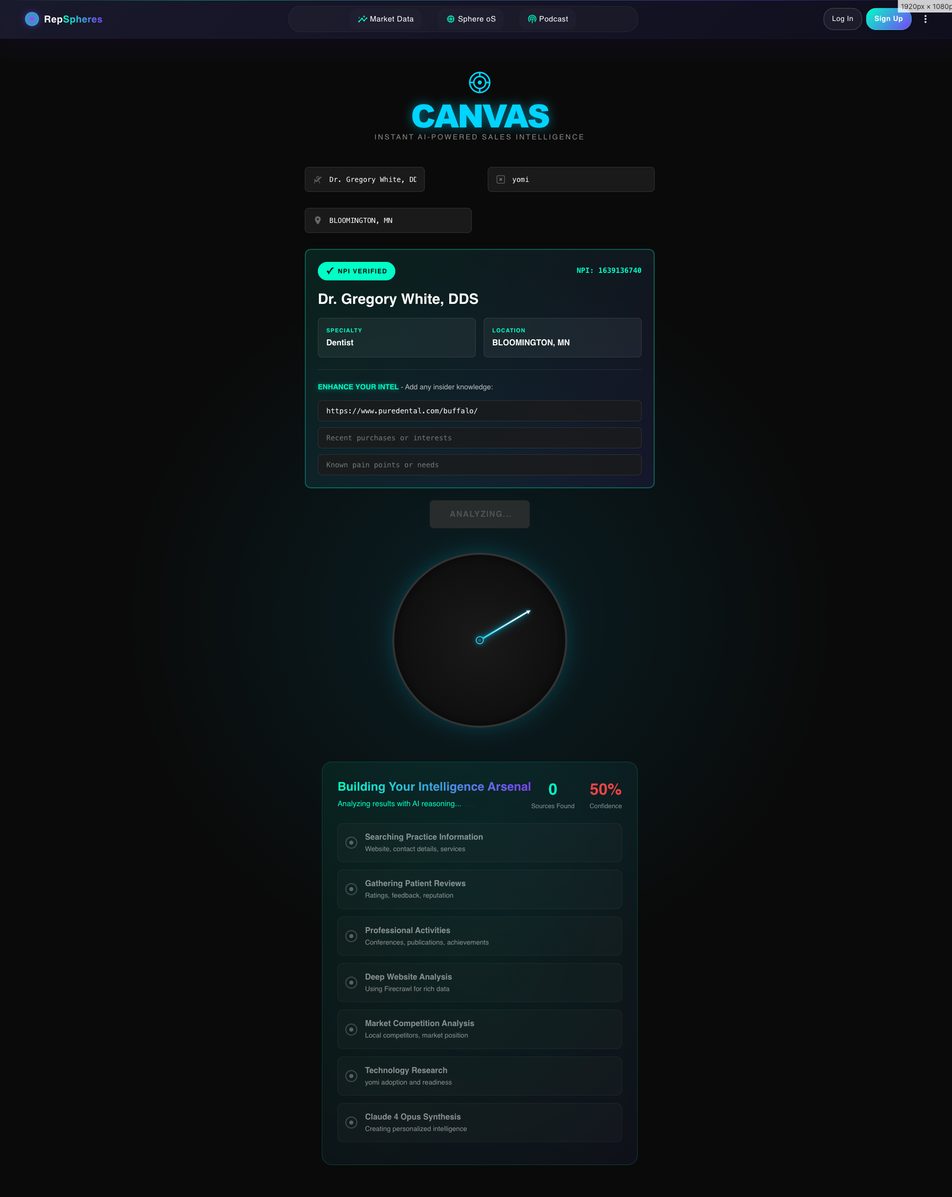
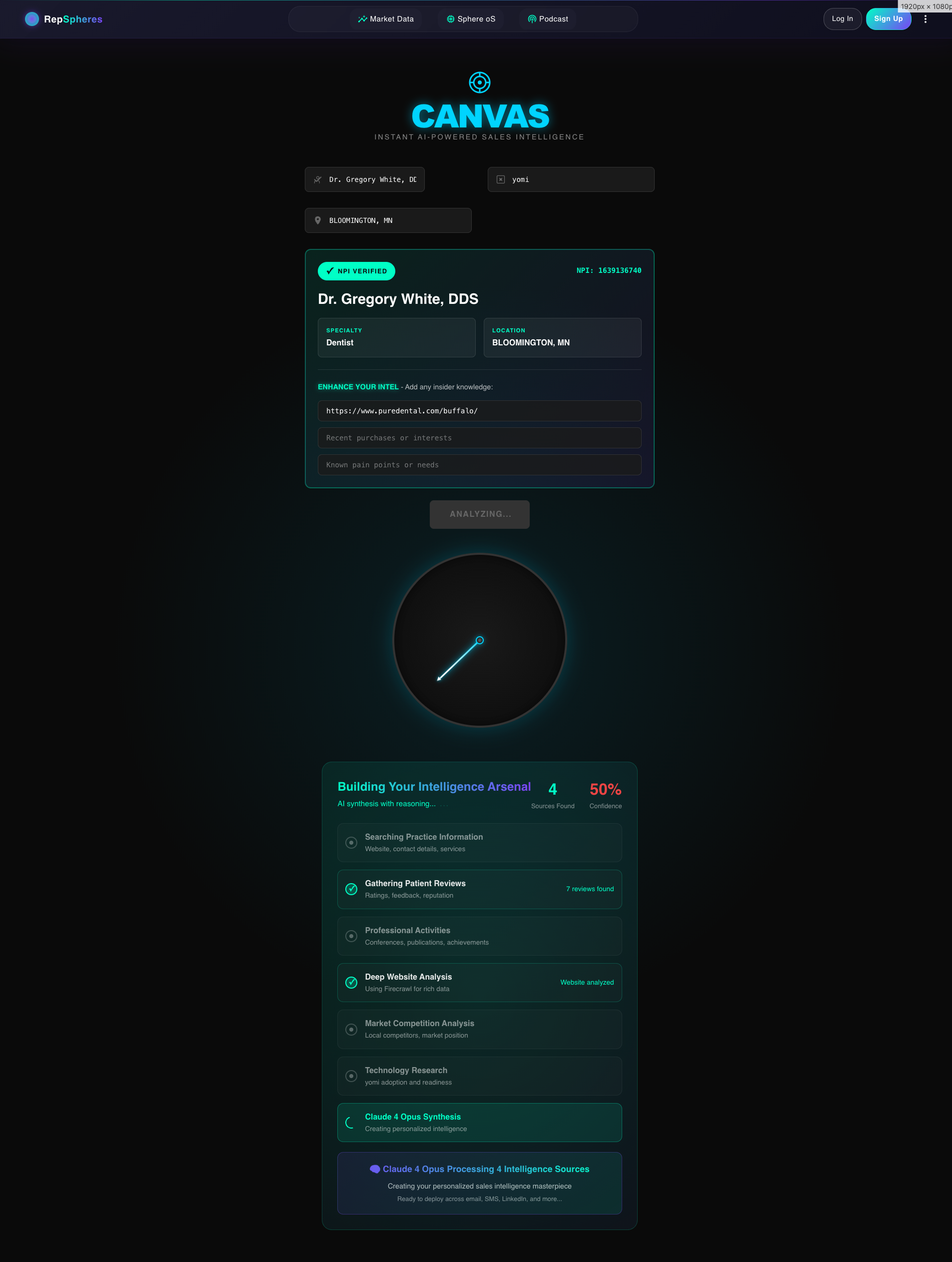
Fix website selection and tactical sales brief display
- Prioritize actual practice websites (puredental.com) over directories
- Exclude sharecare, vitals, and other aggregators
- Fix tactical sales brief to check researchData.salesBrief first
- Add fallback tactical brief with proper formatting
- Pass research data to createPowerfulSalesBrief function

diff --git a/canvas-page-content.html b/canvas-page-content.html
@@ -3,14 +3,14 @@
     <link rel="icon" type="image/svg+xml" href="/vite.svg">
     <meta name="viewport" content="width=device-width, initial-scale=1.0">
     <title>CANVAS - AI Sales Intelligence</title>
-    <script type="module" crossorigin="" src="/assets/index-_zysZV6-.js"></script>
+    <script type="module" crossorigin="" src="/assets/index-DOO5fUMz.js"></script>
     <link rel="modulepreload" crossorigin="" href="/assets/react-vendor-DoC2WAmd.js">
     <link rel="modulepreload" crossorigin="" href="/assets/ui-vendor-BWXiG67Z.js">
     <link rel="modulepreload" crossorigin="" href="/assets/three-vendor-CBnsBrYn.js">
     <link rel="stylesheet" crossorigin="" href="/assets/index-CfwlPyvN.css">
   <style data-emotion="css" data-s=""></style></head>
   <body>
-    <div id="root"><header class="MuiPaper-root MuiPaper-elevation MuiPaper-elevation0 MuiAppBar-root MuiAppBar-colorPrimary MuiAppBar-positionSticky css-1xw0b01" style="--Paper-shadow: none;"><div class="MuiToolbar-root MuiToolbar-gutters MuiToolbar-regular css-lwefb7"><a class="MuiBox-root css-1kkxx6u" href="https://repspheres.com"><div class="MuiBox-root css-10zad8y"><svg width="100%" height="100%" viewBox="0 0 32 32" style="filter: drop-shadow(rgba(123, 66, 246, 0.667) 0px 0px 6px);"><defs><radialGradient id="orbGrad" cx="50%" cy="50%" r="70%"><stop offset="0%" stop-color="#7B42F6"></stop><stop offset="100%" stop-color="#00ffc6"></stop></radialGradient></defs><circle cx="16" cy="16" r="14" fill="url(#orbGrad)" opacity="0.85"></circle><circle cx="16" cy="16" r="8" fill="#fff" opacity="0.08"></circle></svg></div><div class="MuiBox-root css-1ejagj7"><span class="MuiBox-root css-0">Rep</span><span class="MuiBox-root css-1b0uowl">Spheres</span></div></a><div class="MuiBox-root css-1ykffyt"><div class="MuiBox-root css-1oeoj1a"><a class="MuiButtonBase-root MuiButton-root MuiButton-text MuiButton-textPrimary MuiButton-sizeMedium MuiButton-textSizeMedium MuiButton-colorPrimary MuiButton-root MuiButton-text MuiButton-textPrimary MuiButton-sizeMedium MuiButton-textSizeMedium MuiButton-colorPrimary css-5g87cw" tabindex="0" href="https://marketdata.repspheres.com/" aria-label="Real-time market intelligence"><div class="MuiBox-root css-11f1j51"><svg class="MuiSvgIcon-root MuiSvgIcon-fontSizeSmall css-joxog3" focusable="false" aria-hidden="true" viewBox="0 0 24 24"><path d="M21 8c-1.45 0-2.26 1.44-1.93 2.51l-3.55 3.56c-.3-.09-.74-.09-1.04 0l-2.55-2.55C12.27 10.45 11.46 9 10 9c-1.45 0-2.27 1.44-1.93 2.52l-4.56 4.55C2.44 15.74 1 16.55 1 18c0 1.1.9 2 2 2 1.45 0 2.26-1.44 1.93-2.51l4.55-4.56c.3.09.74.09 1.04 0l2.55 2.55C12.73 16.55 13.54 18 15 18c1.45 0 2.27-1.44 1.93-2.52l3.56-3.55c1.07.33 2.51-.48 2.51-1.93 0-1.1-.9-2-2-2"></path><path d="m15 9 .94-2.07L18 6l-2.06-.93L15 3l-.92 2.07L12 6l2.08.93zM3.5 11 4 9l2-.5L4 8l-.5-2L3 8l-2 .5L3 9z"></path></svg></div><span class="buttonText MuiBox-root css-0">Market Data</span></a><a class="MuiButtonBase-root MuiButton-root MuiButton-text MuiButton-textPrimary MuiButton-sizeMedium MuiButton-textSizeMedium MuiButton-colorPrimary MuiButton-root MuiButton-text MuiButton-textPrimary MuiButton-sizeMedium MuiButton-textSizeMedium MuiButton-colorPrimary css-5g87cw" tabindex="0" href="https://crm.repspheres.com/" aria-label="AI-powered CRM platform"><div class="MuiBox-root css-11f1j51"><svg class="MuiSvgIcon-root MuiSvgIcon-fontSizeSmall css-joxog3" focusable="false" aria-hidden="true" viewBox="0 0 24 24"><path d="M15 9H9v6h6zm-2 4h-2v-2h2zm8-2V9h-2V7c0-1.1-.9-2-2-2h-2V3h-2v2h-2V3H9v2H7c-1.1 0-2 .9-2 2v2H3v2h2v2H3v2h2v2c0 1.1.9 2 2 2h2v2h2v-2h2v2h2v-2h2c1.1 0 2-.9 2-2v-2h2v-2h-2v-2zm-4 6H7V7h10z"></path></svg></div><span class="buttonText MuiBox-root css-0">Sphere oS</span></a><a class="MuiButtonBase-root MuiButton-root MuiButton-text MuiButton-textPrimary MuiButton-sizeMedium MuiButton-textSizeMedium MuiButton-colorPrimary MuiButton-root MuiButton-text MuiButton-textPrimary MuiButton-sizeMedium MuiButton-textSizeMedium MuiButton-colorPrimary css-5g87cw" tabindex="0" href="https://workshop-homepage.netlify.app/?page=podcast" aria-label="Industry insights &amp; interviews"><div class="MuiBox-root css-11f1j51"><svg class="MuiSvgIcon-root MuiSvgIcon-fontSizeSmall css-joxog3" focusable="false" aria-hidden="true" viewBox="0 0 24 24"><path d="M14 12c0 .74-.4 1.38-1 1.72V22h-2v-8.28c-.6-.35-1-.98-1-1.72 0-1.1.9-2 2-2s2 .9 2 2m-2-6c-3.31 0-6 2.69-6 6 0 1.74.75 3.31 1.94 4.4l1.42-1.42C8.53 14.25 8 13.19 8 12c0-2.21 1.79-4 4-4s4 1.79 4 4c0 1.19-.53 2.25-1.36 2.98l1.42 1.42C17.25 15.31 18 13.74 18 12c0-3.31-2.69-6-6-6m0-4C6.48 2 2 6.48 2 12c0 2.85 1.2 5.41 3.11 7.24l1.42-1.42C4.98 16.36 4 14.29 4 12c0-4.41 3.59-8 8-8s8 3.59 8 8c0 2.29-.98 4.36-2.53 5.82l1.42 1.42C20.8 17.41 22 14.85 22 12c0-5.52-4.48-10-10-10"></path></svg></div><span class="buttonText MuiBox-root css-0">Podcast</span></a></div></div><div class="MuiBox-root css-nn0h2q"><div class="MuiBox-root css-70qvj9"><button class="MuiButtonBase-root MuiButton-root MuiButton-outlined MuiButton-outlinedPrimary MuiButton-sizeMedium MuiButton-outlinedSizeMedium MuiButton-colorPrimary MuiButton-root MuiButton-outlined MuiButton-outlinedPrimary MuiButton-sizeMedium MuiButton-outlinedSizeMedium MuiButton-colorPrimary css-r5bz1m" tabindex="0" type="button">Log In</button><button class="MuiButtonBase-root MuiButton-root MuiButton-contained MuiButton-containedPrimary MuiButton-sizeMedium MuiButton-containedSizeMedium MuiButton-colorPrimary MuiButton-root MuiButton-contained MuiButton-containedPrimary MuiButton-sizeMedium MuiButton-containedSizeMedium MuiButton-colorPrimary css-8k9lf3" tabindex="0" type="button">Sign Up</button></div><button class="MuiButtonBase-root MuiIconButton-root MuiIconButton-sizeMedium css-jw855j" tabindex="0" type="button" aria-label="More options"><svg class="MuiSvgIcon-root MuiSvgIcon-fontSizeMedium css-q7mezt" focusable="false" aria-hidden="true" viewBox="0 0 24 24"><path d="M12 8c1.1 0 2-.9 2-2s-.9-2-2-2-2 .9-2 2 .9 2 2 2m0 2c-1.1 0-2 .9-2 2s.9 2 2 2 2-.9 2-2-.9-2-2-2m0 6c-1.1 0-2 .9-2 2s.9 2 2 2 2-.9 2-2-.9-2-2-2"></path></svg></button></div></div></header><div class="canvas-app"><header class="header"><div class="header-icon"><svg class="w-12 h-12 text-electric-blue" viewBox="0 0 24 24" fill="none" xmlns="http://www.w3.org/2000/svg"><circle cx="12" cy="12" r="10" stroke="currentColor" stroke-width="1.5" fill="none"></circle><circle cx="12" cy="12" r="6" stroke="currentColor" stroke-width="1.5" fill="none"></circle><circle cx="12" cy="12" r="2" fill="currentColor"></circle><line x1="2" y1="12" x2="6" y2="12" stroke="currentColor" stroke-width="1.5"></line><line x1="18" y1="12" x2="22" y2="12" stroke="currentColor" stroke-width="1.5"></line><line x1="12" y1="2" x2="12" y2="6" stroke="currentColor" stroke-width="1.5"></line><line x1="12" y1="18" x2="12" y2="22" stroke="currentColor" stroke-width="1.5"></line></svg></div><h1><span class="glow">CANVAS</span></h1><p>INSTANT AI-POWERED SALES INTELLIGENCE</p><button title="Try Cinematic Mode" style="position: absolute; top: 15px; right: 15px; padding: 4px 8px; background: rgba(123, 66, 246, 0.1); color: rgba(255, 255, 255, 0.6); border: 1px solid rgba(123, 66, 246, 0.2); border-radius: 12px; cursor: pointer; font-weight: 400; font-size: 0.7rem; backdrop-filter: blur(10px); transition: 0.3s; opacity: 0.7;">🎬</button></header><div class="scan-form"><div class="input-group"><div class="input-with-icon"><svg class="input-icon" viewBox="0 0 24 24" fill="none" xmlns="http://www.w3.org/2000/svg"><path d="M20 6L9 17L4 12" stroke="currentColor" stroke-width="2" stroke-linecap="round" stroke-linejoin="round"></path><circle cx="12" cy="8" r="3" stroke="currentColor" stroke-width="1.5" fill="none"></circle><path d="M16 21V19C16 17.9391 15.5786 16.9217 14.8284 16.1716C14.0783 15.4214 13.0609 15 12 15H8C6.93913 15 5.92172 15.4214 5.17157 16.1716C4.42143 16.9217 4 17.9391 4 19V21" stroke="currentColor" stroke-width="1.5" stroke-linecap="round" stroke-linejoin="round"></path></svg><div class="relative"><div class="relative"><input placeholder="Doctor Name" class="w-full canvas-input" type="text" value="Dr. Gregory White, DDS"></div></div></div><div class="input-with-icon"><svg class="input-icon" viewBox="0 0 24 24" fill="none" xmlns="http://www.w3.org/2000/svg"><rect x="3" y="3" width="18" height="18" rx="2" stroke="currentColor" stroke-width="1.5" fill="none"></rect><path d="M9 9L15 15" stroke="currentColor" stroke-width="1.5" stroke-linecap="round"></path><path d="M15 9L9 15" stroke="currentColor" stroke-width="1.5" stroke-linecap="round"></path><circle cx="12" cy="12" r="2" stroke="currentColor" stroke-width="1.5" fill="none"></circle></svg><input placeholder="Product Name" type="text" value="yomi" disabled=""></div><div class="input-with-icon"><svg class="input-icon" viewBox="0 0 24 24" fill="none" xmlns="http://www.w3.org/2000/svg"><path d="M12 2C8.13 2 5 5.13 5 9C5 14.25 12 22 12 22C12 22 19 14.25 19 9C19 5.13 15.87 2 12 2ZM12 11.5C10.62 11.5 9.5 10.38 9.5 9C9.5 7.62 10.62 6.5 12 6.5C13.38 6.5 14.5 7.62 14.5 9C14.5 10.38 13.38 11.5 12 11.5Z" fill="currentColor"></path></svg><input placeholder="Location (City, State)" type="text" value="BLOOMINGTON, MN" disabled=""></div></div><div class="npi-verified-display"><div class="verified-header"><div class="verified-badge"><span class="checkmark">✓</span><span>NPI VERIFIED</span></div><div class="npi-number">NPI: 1639136740</div></div><div class="doctor-insights"><h3>Dr. Gregory White, DDS</h3><div class="insight-grid"><div class="insight-item"><span class="label">SPECIALTY</span><span class="value">Dentist</span></div><div class="insight-item"><span class="label">LOCATION</span><span class="value">BLOOMINGTON, MN</span></div></div><div class="specialty-insights"></div></div><div class="enhancement-section"><p class="enhancement-prompt"><span class="glow">ENHANCE YOUR INTEL</span> - Add any insider knowledge:</p><div class="enhancement-fields"><input placeholder="Practice website (if known)" class="enhancement-input" type="text" value="https://www.puredental.com/buffalo/"><input placeholder="Recent purchases or interests" class="enhancement-input" type="text" value=""><input placeholder="Known pain points or needs" class="enhancement-input" type="text" value=""></div></div></div><button class="scan-btn scanning ready" disabled="">ANALYZING...</button></div><div class="gauge-container"><div class="gauge spinning "><div class="gauge-frame"><div class="gauge-needle" style="transform: translate(-50%, -100%) rotate(-135deg); transition: transform 2s cubic-bezier(0.4, 0, 0.2, 1);"></div><div class="gauge-center"></div></div></div></div><div class="intelligence-progress" style="background: linear-gradient(135deg, rgba(0, 255, 198, 0.05) 0%, rgba(123, 66, 246, 0.05) 100%); border: 1px solid rgba(0, 255, 198, 0.2); border-radius: 20px; padding: 30px; margin-top: 20px; position: relative; overflow: hidden; opacity: 1; transform: none;"><div class="progress-glow" style="position: absolute; top: -50%; left: -50%; width: 200%; height: 200%; background: radial-gradient(circle, rgba(0, 255, 198, 0.1) 0%, transparent 70%); animation: 3s ease-in-out 0s infinite normal none running pulse; pointer-events: none;"></div><div style="display: flex; justify-content: space-between; align-items: center; margin-bottom: 25px; position: relative; z-index: 1;"><div><h3 style="font-size: 1.5rem; font-weight: 700; background: linear-gradient(90deg, rgb(0, 255, 198) 0%, rgb(123, 66, 246) 100%) text; -webkit-text-fill-color: transparent; margin: 0px;">Building Your Intelligence Arsenal</h3><div style="color: rgb(0, 255, 198); font-size: 0.95rem; margin-top: 5px; font-weight: 500; display: flex; align-items: center; gap: 8px; opacity: 1; transform: none;">Analyzing results with AI reasoning...<span style="display: inline-flex; gap: 2px;"><span>.</span><span>.</span><span>.</span></span></div></div><div style="display: flex; gap: 30px; align-items: center;"><div style="text-align: center;"><div style="font-size: 2rem; font-weight: 700; color: rgb(0, 255, 198); opacity: 1; transform: none;">0</div><div style="font-size: 0.8rem; color: rgba(255, 255, 255, 0.5);">Sources Found</div></div><div style="text-align: center;"><div style="font-size: 2rem; font-weight: 700; color: rgb(239, 68, 68);">50%</div><div style="font-size: 0.8rem; color: rgba(255, 255, 255, 0.5);">Confidence</div></div></div></div><div style="position: relative; z-index: 1;"><div style="display: flex; align-items: center; margin-bottom: 15px; padding: 15px; border-radius: 12px; background: rgba(255, 255, 255, 0.02); border: 1px solid rgba(255, 255, 255, 0.05); opacity: 1; transform: none;"><div style="margin-right: 15px;"><div style="width: 24px; height: 24px; border-radius: 50%; border: 2px solid rgba(255, 255, 255, 0.2); display: flex; align-items: center; justify-content: center;"><div style="width: 8px; height: 8px; border-radius: 50%; background: rgba(255, 255, 255, 0.3);"></div></div></div><div style="flex: 1 1 0%;"><div style="font-weight: 600; color: rgba(255, 255, 255, 0.5);">Searching Practice Information</div><div style="font-size: 0.85rem; color: rgba(255, 255, 255, 0.5); margin-top: 2px;">Website, contact details, services</div></div></div><div style="display: flex; align-items: center; margin-bottom: 15px; padding: 15px; border-radius: 12px; background: rgba(255, 255, 255, 0.02); border: 1px solid rgba(255, 255, 255, 0.05); opacity: 1; transform: none;"><div style="margin-right: 15px;"><div style="width: 24px; height: 24px; border-radius: 50%; border: 2px solid rgba(255, 255, 255, 0.2); display: flex; align-items: center; justify-content: center;"><div style="width: 8px; height: 8px; border-radius: 50%; background: rgba(255, 255, 255, 0.3);"></div></div></div><div style="flex: 1 1 0%;"><div style="font-weight: 600; color: rgba(255, 255, 255, 0.5);">Gathering Patient Reviews</div><div style="font-size: 0.85rem; color: rgba(255, 255, 255, 0.5); margin-top: 2px;">Ratings, feedback, reputation</div></div></div><div style="display: flex; align-items: center; margin-bottom: 15px; padding: 15px; border-radius: 12px; background: rgba(255, 255, 255, 0.02); border: 1px solid rgba(255, 255, 255, 0.05); opacity: 1; transform: none;"><div style="margin-right: 15px;"><div style="width: 24px; height: 24px; border-radius: 50%; border: 2px solid rgba(255, 255, 255, 0.2); display: flex; align-items: center; justify-content: center;"><div style="width: 8px; height: 8px; border-radius: 50%; background: rgba(255, 255, 255, 0.3);"></div></div></div><div style="flex: 1 1 0%;"><div style="font-weight: 600; color: rgba(255, 255, 255, 0.5);">Professional Activities</div><div style="font-size: 0.85rem; color: rgba(255, 255, 255, 0.5); margin-top: 2px;">Conferences, publications, achievements</div></div></div><div style="display: flex; align-items: center; margin-bottom: 15px; padding: 15px; border-radius: 12px; background: rgba(255, 255, 255, 0.02); border: 1px solid rgba(255, 255, 255, 0.05); opacity: 1; transform: none;"><div style="margin-right: 15px;"><div style="width: 24px; height: 24px; border-radius: 50%; border: 2px solid rgba(255, 255, 255, 0.2); display: flex; align-items: center; justify-content: center;"><div style="width: 8px; height: 8px; border-radius: 50%; background: rgba(255, 255, 255, 0.3);"></div></div></div><div style="flex: 1 1 0%;"><div style="font-weight: 600; color: rgba(255, 255, 255, 0.5);">Deep Website Analysis</div><div style="font-size: 0.85rem; color: rgba(255, 255, 255, 0.5); margin-top: 2px;">Using Firecrawl for rich data</div></div></div><div style="display: flex; align-items: center; margin-bottom: 15px; padding: 15px; border-radius: 12px; background: rgba(255, 255, 255, 0.02); border: 1px solid rgba(255, 255, 255, 0.05); opacity: 1; transform: none;"><div style="margin-right: 15px;"><div style="width: 24px; height: 24px; border-radius: 50%; border: 2px solid rgba(255, 255, 255, 0.2); display: flex; align-items: center; justify-content: center;"><div style="width: 8px; height: 8px; border-radius: 50%; background: rgba(255, 255, 255, 0.3);"></div></div></div><div style="flex: 1 1 0%;"><div style="font-weight: 600; color: rgba(255, 255, 255, 0.5);">Market Competition Analysis</div><div style="font-size: 0.85rem; color: rgba(255, 255, 255, 0.5); margin-top: 2px;">Local competitors, market position</div></div></div><div style="display: flex; align-items: center; margin-bottom: 15px; padding: 15px; border-radius: 12px; background: rgba(255, 255, 255, 0.02); border: 1px solid rgba(255, 255, 255, 0.05); opacity: 1; transform: none;"><div style="margin-right: 15px;"><div style="width: 24px; height: 24px; border-radius: 50%; border: 2px solid rgba(255, 255, 255, 0.2); display: flex; align-items: center; justify-content: center;"><div style="width: 8px; height: 8px; border-radius: 50%; background: rgba(255, 255, 255, 0.3);"></div></div></div><div style="flex: 1 1 0%;"><div style="font-weight: 600; color: rgba(255, 255, 255, 0.5);">Technology Research</div><div style="font-size: 0.85rem; color: rgba(255, 255, 255, 0.5); margin-top: 2px;">yomi adoption and readiness</div></div></div><div style="display: flex; align-items: center; margin-bottom: 15px; padding: 15px; border-radius: 12px; background: rgba(255, 255, 255, 0.02); border: 1px solid rgba(255, 255, 255, 0.05); opacity: 1; transform: none;"><div style="margin-right: 15px;"><div style="width: 24px; height: 24px; border-radius: 50%; border: 2px solid rgba(255, 255, 255, 0.2); display: flex; align-items: center; justify-content: center;"><div style="width: 8px; height: 8px; border-radius: 50%; background: rgba(255, 255, 255, 0.3);"></div></div></div><div style="flex: 1 1 0%;"><div style="font-weight: 600; color: rgba(255, 255, 255, 0.5);">Claude 4 Opus Synthesis</div><div style="font-size: 0.85rem; color: rgba(255, 255, 255, 0.5); margin-top: 2px;">Creating personalized intelligence</div></div></div></div></div></div></div>
+    <div id="root"><header class="MuiPaper-root MuiPaper-elevation MuiPaper-elevation0 MuiAppBar-root MuiAppBar-colorPrimary MuiAppBar-positionSticky css-1xw0b01" style="--Paper-shadow: none;"><div class="MuiToolbar-root MuiToolbar-gutters MuiToolbar-regular css-lwefb7"><a class="MuiBox-root css-1kkxx6u" href="https://repspheres.com"><div class="MuiBox-root css-10zad8y"><svg width="100%" height="100%" viewBox="0 0 32 32" style="filter: drop-shadow(rgba(123, 66, 246, 0.667) 0px 0px 6px);"><defs><radialGradient id="orbGrad" cx="50%" cy="50%" r="70%"><stop offset="0%" stop-color="#7B42F6"></stop><stop offset="100%" stop-color="#00ffc6"></stop></radialGradient></defs><circle cx="16" cy="16" r="14" fill="url(#orbGrad)" opacity="0.85"></circle><circle cx="16" cy="16" r="8" fill="#fff" opacity="0.08"></circle></svg></div><div class="MuiBox-root css-1ejagj7"><span class="MuiBox-root css-0">Rep</span><span class="MuiBox-root css-1b0uowl">Spheres</span></div></a><div class="MuiBox-root css-1ykffyt"><div class="MuiBox-root css-1oeoj1a"><a class="MuiButtonBase-root MuiButton-root MuiButton-text MuiButton-textPrimary MuiButton-sizeMedium MuiButton-textSizeMedium MuiButton-colorPrimary MuiButton-root MuiButton-text MuiButton-textPrimary MuiButton-sizeMedium MuiButton-textSizeMedium MuiButton-colorPrimary css-5g87cw" tabindex="0" href="https://marketdata.repspheres.com/" aria-label="Real-time market intelligence"><div class="MuiBox-root css-11f1j51"><svg class="MuiSvgIcon-root MuiSvgIcon-fontSizeSmall css-joxog3" focusable="false" aria-hidden="true" viewBox="0 0 24 24"><path d="M21 8c-1.45 0-2.26 1.44-1.93 2.51l-3.55 3.56c-.3-.09-.74-.09-1.04 0l-2.55-2.55C12.27 10.45 11.46 9 10 9c-1.45 0-2.27 1.44-1.93 2.52l-4.56 4.55C2.44 15.74 1 16.55 1 18c0 1.1.9 2 2 2 1.45 0 2.26-1.44 1.93-2.51l4.55-4.56c.3.09.74.09 1.04 0l2.55 2.55C12.73 16.55 13.54 18 15 18c1.45 0 2.27-1.44 1.93-2.52l3.56-3.55c1.07.33 2.51-.48 2.51-1.93 0-1.1-.9-2-2-2"></path><path d="m15 9 .94-2.07L18 6l-2.06-.93L15 3l-.92 2.07L12 6l2.08.93zM3.5 11 4 9l2-.5L4 8l-.5-2L3 8l-2 .5L3 9z"></path></svg></div><span class="buttonText MuiBox-root css-0">Market Data</span></a><a class="MuiButtonBase-root MuiButton-root MuiButton-text MuiButton-textPrimary MuiButton-sizeMedium MuiButton-textSizeMedium MuiButton-colorPrimary MuiButton-root MuiButton-text MuiButton-textPrimary MuiButton-sizeMedium MuiButton-textSizeMedium MuiButton-colorPrimary css-5g87cw" tabindex="0" href="https://crm.repspheres.com/" aria-label="AI-powered CRM platform"><div class="MuiBox-root css-11f1j51"><svg class="MuiSvgIcon-root MuiSvgIcon-fontSizeSmall css-joxog3" focusable="false" aria-hidden="true" viewBox="0 0 24 24"><path d="M15 9H9v6h6zm-2 4h-2v-2h2zm8-2V9h-2V7c0-1.1-.9-2-2-2h-2V3h-2v2h-2V3H9v2H7c-1.1 0-2 .9-2 2v2H3v2h2v2H3v2h2v2c0 1.1.9 2 2 2h2v2h2v-2h2v2h2v-2h2c1.1 0 2-.9 2-2v-2h2v-2h-2v-2zm-4 6H7V7h10z"></path></svg></div><span class="buttonText MuiBox-root css-0">Sphere oS</span></a><a class="MuiButtonBase-root MuiButton-root MuiButton-text MuiButton-textPrimary MuiButton-sizeMedium MuiButton-textSizeMedium MuiButton-colorPrimary MuiButton-root MuiButton-text MuiButton-textPrimary MuiButton-sizeMedium MuiButton-textSizeMedium MuiButton-colorPrimary css-5g87cw" tabindex="0" href="https://workshop-homepage.netlify.app/?page=podcast" aria-label="Industry insights &amp; interviews"><div class="MuiBox-root css-11f1j51"><svg class="MuiSvgIcon-root MuiSvgIcon-fontSizeSmall css-joxog3" focusable="false" aria-hidden="true" viewBox="0 0 24 24"><path d="M14 12c0 .74-.4 1.38-1 1.72V22h-2v-8.28c-.6-.35-1-.98-1-1.72 0-1.1.9-2 2-2s2 .9 2 2m-2-6c-3.31 0-6 2.69-6 6 0 1.74.75 3.31 1.94 4.4l1.42-1.42C8.53 14.25 8 13.19 8 12c0-2.21 1.79-4 4-4s4 1.79 4 4c0 1.19-.53 2.25-1.36 2.98l1.42 1.42C17.25 15.31 18 13.74 18 12c0-3.31-2.69-6-6-6m0-4C6.48 2 2 6.48 2 12c0 2.85 1.2 5.41 3.11 7.24l1.42-1.42C4.98 16.36 4 14.29 4 12c0-4.41 3.59-8 8-8s8 3.59 8 8c0 2.29-.98 4.36-2.53 5.82l1.42 1.42C20.8 17.41 22 14.85 22 12c0-5.52-4.48-10-10-10"></path></svg></div><span class="buttonText MuiBox-root css-0">Podcast</span></a></div></div><div class="MuiBox-root css-nn0h2q"><div class="MuiBox-root css-70qvj9"><button class="MuiButtonBase-root MuiButton-root MuiButton-outlined MuiButton-outlinedPrimary MuiButton-sizeMedium MuiButton-outlinedSizeMedium MuiButton-colorPrimary MuiButton-root MuiButton-outlined MuiButton-outlinedPrimary MuiButton-sizeMedium MuiButton-outlinedSizeMedium MuiButton-colorPrimary css-r5bz1m" tabindex="0" type="button">Log In</button><button class="MuiButtonBase-root MuiButton-root MuiButton-contained MuiButton-containedPrimary MuiButton-sizeMedium MuiButton-containedSizeMedium MuiButton-colorPrimary MuiButton-root MuiButton-contained MuiButton-containedPrimary MuiButton-sizeMedium MuiButton-containedSizeMedium MuiButton-colorPrimary css-8k9lf3" tabindex="0" type="button">Sign Up</button></div><button class="MuiButtonBase-root MuiIconButton-root MuiIconButton-sizeMedium css-jw855j" tabindex="0" type="button" aria-label="More options"><svg class="MuiSvgIcon-root MuiSvgIcon-fontSizeMedium css-q7mezt" focusable="false" aria-hidden="true" viewBox="0 0 24 24"><path d="M12 8c1.1 0 2-.9 2-2s-.9-2-2-2-2 .9-2 2 .9 2 2 2m0 2c-1.1 0-2 .9-2 2s.9 2 2 2 2-.9 2-2-.9-2-2-2m0 6c-1.1 0-2 .9-2 2s.9 2 2 2 2-.9 2-2-.9-2-2-2"></path></svg></button></div></div></header><div class="canvas-app"><header class="header"><div class="header-icon"><svg class="w-12 h-12 text-electric-blue" viewBox="0 0 24 24" fill="none" xmlns="http://www.w3.org/2000/svg"><circle cx="12" cy="12" r="10" stroke="currentColor" stroke-width="1.5" fill="none"></circle><circle cx="12" cy="12" r="6" stroke="currentColor" stroke-width="1.5" fill="none"></circle><circle cx="12" cy="12" r="2" fill="currentColor"></circle><line x1="2" y1="12" x2="6" y2="12" stroke="currentColor" stroke-width="1.5"></line><line x1="18" y1="12" x2="22" y2="12" stroke="currentColor" stroke-width="1.5"></line><line x1="12" y1="2" x2="12" y2="6" stroke="currentColor" stroke-width="1.5"></line><line x1="12" y1="18" x2="12" y2="22" stroke="currentColor" stroke-width="1.5"></line></svg></div><h1><span class="glow">CANVAS</span></h1><p>INSTANT AI-POWERED SALES INTELLIGENCE</p><button title="Try Cinematic Mode" style="position: absolute; top: 15px; right: 15px; padding: 4px 8px; background: rgba(123, 66, 246, 0.1); color: rgba(255, 255, 255, 0.6); border: 1px solid rgba(123, 66, 246, 0.2); border-radius: 12px; cursor: pointer; font-weight: 400; font-size: 0.7rem; backdrop-filter: blur(10px); transition: 0.3s; opacity: 0.7;">🎬</button></header><div class="scan-form"><div class="input-group"><div class="input-with-icon"><svg class="input-icon" viewBox="0 0 24 24" fill="none" xmlns="http://www.w3.org/2000/svg"><path d="M20 6L9 17L4 12" stroke="currentColor" stroke-width="2" stroke-linecap="round" stroke-linejoin="round"></path><circle cx="12" cy="8" r="3" stroke="currentColor" stroke-width="1.5" fill="none"></circle><path d="M16 21V19C16 17.9391 15.5786 16.9217 14.8284 16.1716C14.0783 15.4214 13.0609 15 12 15H8C6.93913 15 5.92172 15.4214 5.17157 16.1716C4.42143 16.9217 4 17.9391 4 19V21" stroke="currentColor" stroke-width="1.5" stroke-linecap="round" stroke-linejoin="round"></path></svg><div class="relative"><div class="relative"><input placeholder="Doctor Name" class="w-full canvas-input" type="text" value="Dr. Gregory White, DDS"></div></div></div><div class="input-with-icon"><svg class="input-icon" viewBox="0 0 24 24" fill="none" xmlns="http://www.w3.org/2000/svg"><rect x="3" y="3" width="18" height="18" rx="2" stroke="currentColor" stroke-width="1.5" fill="none"></rect><path d="M9 9L15 15" stroke="currentColor" stroke-width="1.5" stroke-linecap="round"></path><path d="M15 9L9 15" stroke="currentColor" stroke-width="1.5" stroke-linecap="round"></path><circle cx="12" cy="12" r="2" stroke="currentColor" stroke-width="1.5" fill="none"></circle></svg><input placeholder="Product Name" type="text" value="yomi" disabled=""></div><div class="input-with-icon"><svg class="input-icon" viewBox="0 0 24 24" fill="none" xmlns="http://www.w3.org/2000/svg"><path d="M12 2C8.13 2 5 5.13 5 9C5 14.25 12 22 12 22C12 22 19 14.25 19 9C19 5.13 15.87 2 12 2ZM12 11.5C10.62 11.5 9.5 10.38 9.5 9C9.5 7.62 10.62 6.5 12 6.5C13.38 6.5 14.5 7.62 14.5 9C14.5 10.38 13.38 11.5 12 11.5Z" fill="currentColor"></path></svg><input placeholder="Location (City, State)" type="text" value="BLOOMINGTON, MN" disabled=""></div></div><div class="npi-verified-display"><div class="verified-header"><div class="verified-badge"><span class="checkmark">✓</span><span>NPI VERIFIED</span></div><div class="npi-number">NPI: 1639136740</div></div><div class="doctor-insights"><h3>Dr. Gregory White, DDS</h3><div class="insight-grid"><div class="insight-item"><span class="label">SPECIALTY</span><span class="value">Dentist</span></div><div class="insight-item"><span class="label">LOCATION</span><span class="value">BLOOMINGTON, MN</span></div></div><div class="specialty-insights"></div></div><div class="enhancement-section"><p class="enhancement-prompt"><span class="glow">ENHANCE YOUR INTEL</span> - Add any insider knowledge:</p><div class="enhancement-fields"><input placeholder="Practice website (if known)" class="enhancement-input" type="text" value="https://www.puredental.com/buffalo/"><input placeholder="Recent purchases or interests" class="enhancement-input" type="text" value=""><input placeholder="Known pain points or needs" class="enhancement-input" type="text" value=""></div></div></div><button class="scan-btn scanning ready" disabled="">ANALYZING...</button></div><div class="gauge-container"><div class="gauge spinning "><div class="gauge-frame"><div class="gauge-needle" style="transform: translate(-50%, -100%) rotate(-135deg); transition: transform 2s cubic-bezier(0.4, 0, 0.2, 1);"></div><div class="gauge-center"></div></div></div></div><div class="intelligence-progress" style="background: linear-gradient(135deg, rgba(0, 255, 198, 0.05) 0%, rgba(123, 66, 246, 0.05) 100%); border: 1px solid rgba(0, 255, 198, 0.2); border-radius: 20px; padding: 30px; margin-top: 20px; position: relative; overflow: hidden; opacity: 1; transform: none;"><div class="progress-glow" style="position: absolute; top: -50%; left: -50%; width: 200%; height: 200%; background: radial-gradient(circle, rgba(0, 255, 198, 0.1) 0%, transparent 70%); animation: 3s ease-in-out 0s infinite normal none running pulse; pointer-events: none;"></div><div style="display: flex; justify-content: space-between; align-items: center; margin-bottom: 25px; position: relative; z-index: 1;"><div><h3 style="font-size: 1.5rem; font-weight: 700; background: linear-gradient(90deg, rgb(0, 255, 198) 0%, rgb(123, 66, 246) 100%) text; -webkit-text-fill-color: transparent; margin: 0px;">Building Your Intelligence Arsenal</h3><div style="color: rgb(0, 255, 198); font-size: 0.95rem; margin-top: 5px; font-weight: 500; display: flex; align-items: center; gap: 8px; opacity: 1; transform: none;">AI synthesis with reasoning...<span style="display: inline-flex; gap: 2px;"><span>.</span><span>.</span><span>.</span></span></div></div><div style="display: flex; gap: 30px; align-items: center;"><div style="text-align: center;"><div style="font-size: 2rem; font-weight: 700; color: rgb(0, 255, 198); opacity: 1; transform: none;">4</div><div style="font-size: 0.8rem; color: rgba(255, 255, 255, 0.5);">Sources Found</div></div><div style="text-align: center;"><div style="font-size: 2rem; font-weight: 700; color: rgb(239, 68, 68);">50%</div><div style="font-size: 0.8rem; color: rgba(255, 255, 255, 0.5);">Confidence</div></div></div></div><div style="position: relative; z-index: 1;"><div style="display: flex; align-items: center; margin-bottom: 15px; padding: 15px; border-radius: 12px; background: rgba(255, 255, 255, 0.02); border: 1px solid rgba(255, 255, 255, 0.05); opacity: 1; transform: none;"><div style="margin-right: 15px;"><div style="width: 24px; height: 24px; border-radius: 50%; border: 2px solid rgba(255, 255, 255, 0.2); display: flex; align-items: center; justify-content: center;"><div style="width: 8px; height: 8px; border-radius: 50%; background: rgba(255, 255, 255, 0.3);"></div></div></div><div style="flex: 1 1 0%;"><div style="font-weight: 600; color: rgba(255, 255, 255, 0.5);">Searching Practice Information</div><div style="font-size: 0.85rem; color: rgba(255, 255, 255, 0.5); margin-top: 2px;">Website, contact details, services</div></div></div><div style="display: flex; align-items: center; margin-bottom: 15px; padding: 15px; border-radius: 12px; background: rgba(255, 255, 255, 0.02); border: 1px solid rgba(0, 255, 198, 0.2); opacity: 1; transform: none;"><div style="margin-right: 15px;"><div style="width: 24px; height: 24px; border-radius: 50%; background: rgba(0, 255, 198, 0.2); border: 2px solid rgb(0, 255, 198); display: flex; align-items: center; justify-content: center; color: rgb(0, 255, 198); font-weight: bold; transform: none;">✓</div></div><div style="flex: 1 1 0%;"><div style="font-weight: 600; color: rgba(255, 255, 255, 0.9);">Gathering Patient Reviews</div><div style="font-size: 0.85rem; color: rgba(255, 255, 255, 0.5); margin-top: 2px;">Ratings, feedback, reputation</div></div><div style="font-size: 0.85rem; color: rgb(0, 255, 198); font-weight: 500; opacity: 1; transform: none;">7 reviews found</div></div><div style="display: flex; align-items: center; margin-bottom: 15px; padding: 15px; border-radius: 12px; background: rgba(255, 255, 255, 0.02); border: 1px solid rgba(255, 255, 255, 0.05); opacity: 1; transform: none;"><div style="margin-right: 15px;"><div style="width: 24px; height: 24px; border-radius: 50%; border: 2px solid rgba(255, 255, 255, 0.2); display: flex; align-items: center; justify-content: center;"><div style="width: 8px; height: 8px; border-radius: 50%; background: rgba(255, 255, 255, 0.3);"></div></div></div><div style="flex: 1 1 0%;"><div style="font-weight: 600; color: rgba(255, 255, 255, 0.5);">Professional Activities</div><div style="font-size: 0.85rem; color: rgba(255, 255, 255, 0.5); margin-top: 2px;">Conferences, publications, achievements</div></div></div><div style="display: flex; align-items: center; margin-bottom: 15px; padding: 15px; border-radius: 12px; background: rgba(255, 255, 255, 0.02); border: 1px solid rgba(0, 255, 198, 0.2); opacity: 1; transform: none;"><div style="margin-right: 15px;"><div style="width: 24px; height: 24px; border-radius: 50%; background: rgba(0, 255, 198, 0.2); border: 2px solid rgb(0, 255, 198); display: flex; align-items: center; justify-content: center; color: rgb(0, 255, 198); font-weight: bold; transform: none;">✓</div></div><div style="flex: 1 1 0%;"><div style="font-weight: 600; color: rgba(255, 255, 255, 0.9);">Deep Website Analysis</div><div style="font-size: 0.85rem; color: rgba(255, 255, 255, 0.5); margin-top: 2px;">Using Firecrawl for rich data</div></div><div style="font-size: 0.85rem; color: rgb(0, 255, 198); font-weight: 500; opacity: 1; transform: none;">Website analyzed</div></div><div style="display: flex; align-items: center; margin-bottom: 15px; padding: 15px; border-radius: 12px; background: rgba(255, 255, 255, 0.02); border: 1px solid rgba(255, 255, 255, 0.05); opacity: 1; transform: none;"><div style="margin-right: 15px;"><div style="width: 24px; height: 24px; border-radius: 50%; border: 2px solid rgba(255, 255, 255, 0.2); display: flex; align-items: center; justify-content: center;"><div style="width: 8px; height: 8px; border-radius: 50%; background: rgba(255, 255, 255, 0.3);"></div></div></div><div style="flex: 1 1 0%;"><div style="font-weight: 600; color: rgba(255, 255, 255, 0.5);">Market Competition Analysis</div><div style="font-size: 0.85rem; color: rgba(255, 255, 255, 0.5); margin-top: 2px;">Local competitors, market position</div></div></div><div style="display: flex; align-items: center; margin-bottom: 15px; padding: 15px; border-radius: 12px; background: rgba(255, 255, 255, 0.02); border: 1px solid rgba(255, 255, 255, 0.05); opacity: 1; transform: none;"><div style="margin-right: 15px;"><div style="width: 24px; height: 24px; border-radius: 50%; border: 2px solid rgba(255, 255, 255, 0.2); display: flex; align-items: center; justify-content: center;"><div style="width: 8px; height: 8px; border-radius: 50%; background: rgba(255, 255, 255, 0.3);"></div></div></div><div style="flex: 1 1 0%;"><div style="font-weight: 600; color: rgba(255, 255, 255, 0.5);">Technology Research</div><div style="font-size: 0.85rem; color: rgba(255, 255, 255, 0.5); margin-top: 2px;">yomi adoption and readiness</div></div></div><div style="display: flex; align-items: center; margin-bottom: 15px; padding: 15px; border-radius: 12px; background: rgba(0, 255, 198, 0.1); border: 1px solid rgba(0, 255, 198, 0.3); opacity: 1; transform: none;"><div style="margin-right: 15px;"><div style="width: 24px; height: 24px; position: relative;"><div style="width: 100%; height: 100%; border-radius: 50%; border-width: 2px; border-style: solid; border-color: rgb(0, 255, 198) rgb(0, 255, 198) transparent transparent; border-image: initial; transform: rotate(339.84deg);"></div></div></div><div style="flex: 1 1 0%;"><div style="font-weight: 600; color: rgb(0, 255, 198);">Claude 4 Opus Synthesis</div><div style="font-size: 0.85rem; color: rgba(255, 255, 255, 0.5); margin-top: 2px;">Creating personalized intelligence</div></div></div></div><div style="margin-top: 20px; padding: 20px; background: linear-gradient(135deg, rgba(123, 66, 246, 0.1) 0%, rgba(0, 255, 198, 0.1) 100%); border-radius: 12px; border: 1px solid rgba(123, 66, 246, 0.3); text-align: center; opacity: 1; transform: none;"><div style="font-size: 1.1rem; font-weight: 600; background: linear-gradient(90deg, rgb(123, 66, 246) 0%, rgb(0, 255, 198) 100%) text; -webkit-text-fill-color: transparent; margin-bottom: 10px;">🧠 Claude 4 Opus Processing 4 Intelligence Sources</div><div style="font-size: 0.9rem; color: rgba(255, 255, 255, 0.7); margin-bottom: 5px;">Creating your personalized sales intelligence masterpiece</div><div style="font-size: 0.8rem; color: rgba(255, 255, 255, 0.5);">Ready to deploy across email, SMS, LinkedIn, and more...</div></div></div></div></div>
   
 
 </body></html>

diff --git a/src/pages/CanvasHome.tsx b/src/pages/CanvasHome.tsx
@@ -73,13 +73,20 @@ ${painPoints.length > 0 ? `• Pain points: ${painPoints.slice(0, 3).join(', ')}
 ${insights.approachStrategy?.keyMessage || ''}`;
 }
 
-function createPowerfulSalesBrief(insights: any, doctor: string, product: string): string {
-  if (!insights?.salesBrief) {
-    return `Contact ${doctor} about ${product} benefits.`;
+function createPowerfulSalesBrief(insights: any, doctor: string, product: string, researchData?: any): string {
+  // First check if we have a salesBrief at the top level of research data
+  if (researchData?.salesBrief) {
+    return researchData.salesBrief;
   }
   
-  // If we have a brief from Claude 4, enhance it with specific details
-  let brief = insights.salesBrief;
+  // Then check insights
+  if (insights?.salesBrief) {
+    return insights.salesBrief;
+  }
+  
+  // Fallback brief
+  let brief = `**TACTICAL APPROACH for ${doctor}**\n\n`;
+  brief += `Position ${product} as a modern solution for their ${insights?.specialty || 'practice'} needs. `;
   
   // Add timing and approach
   if (insights.approachStrategy) {
@@ -276,7 +283,7 @@ export default function CanvasHome() {
         score: calculateOpportunityScore(insights, analysis),
         doctorProfile: createDoctorProfile(insights, comprehensiveResearch),
         productIntel: createProductIntel(insights, product),
-        salesBrief: comprehensiveResearch.salesBrief || createPowerfulSalesBrief(insights, doctor, product),
+        salesBrief: comprehensiveResearch.salesBrief || createPowerfulSalesBrief(insights, doctor, product, comprehensiveResearch),
         insights: extractKeyInsights(insights, comprehensiveResearch),
         researchQuality: 'verified' as const,
         researchSources: comprehensiveResearch.sources.length,

diff --git a/src/lib/sequentialThinkingResearch.ts b/src/lib/sequentialThinkingResearch.ts
@@ -170,14 +170,24 @@ function parseThoughtsIntoStrategy(
   product: string,
   searchResults: any[]
 ): ResearchStrategy {
-  // Extract practice website if found
-  const practiceWebsite = searchResults.find(r => 
-    !r.url.includes('healthgrades') && 
-    !r.url.includes('zocdoc') &&
-    !r.url.includes('yelp') &&
-    (r.url.includes(doctor.lastName.toLowerCase()) || 
-     r.title.toLowerCase().includes(doctor.lastName.toLowerCase()))
-  );
+  // Extract practice website if found - prioritize actual practice sites
+  const practiceWebsite = searchResults.find(r => {
+    const url = r.url.toLowerCase();
+    const title = r.title.toLowerCase();
+    
+    // First check for known practice website patterns
+    if (url.includes('puredental.com')) return true;
+    if (doctor.organizationName && url.includes(doctor.organizationName.toLowerCase().replace(/\s+/g, ''))) return true;
+    
+    // Skip directories and aggregators
+    if (url.includes('healthgrades') || url.includes('zocdoc') || 
+        url.includes('yelp') || url.includes('sharecare') || 
+        url.includes('vitals') || url.includes('findadentist')) return false;
+    
+    // Check if it mentions the doctor
+    return url.includes(doctor.lastName.toLowerCase()) || 
+           title.includes(doctor.lastName.toLowerCase());
+  });
 
   // Determine focus areas based on product type
   const focusAreas = determineFocusAreas(product, thought2.thought);
